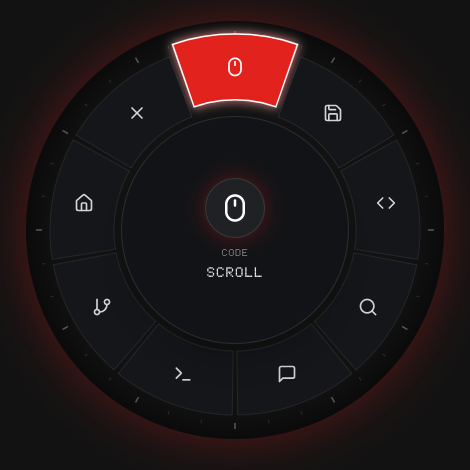
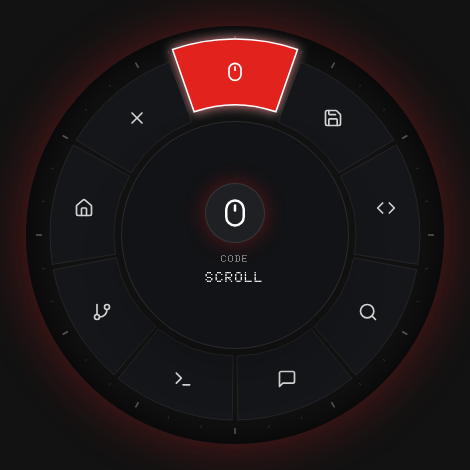
docs: refresh screenshots and credits for the open font
Recapture the README GIF and screenshots, the social preview and the website
images with the new typeface, sync the website wheel's font rules with the
app, and update the acknowledgements, changelog and contributor notes.

diff --git a/website/src/styles/global.css b/website/src/styles/global.css
@@ -2,7 +2,7 @@
  * paper: oklch(14.5% 0.012 265) · accent: oklch(57% 0.215 27) · display: Doto · body: Hanken Grotesk · hero: Stage, the app's own wheel on the right opens from a simulated double press and can be turned · nav: edge-aligned wordmark and one action, no links · footer: a ruled row of links over the notice · imagery: the product, live (the app's own wheel component) and captured (the settings window) · signature: the real wheel, running in the hero, opening from a double press and answering the arrow keys
  * axes: dark/mono-dot/chromatic-red · posture: restrained, the signal red marks the primary action, the selected slice and the focus ring · contrast: pass · fold: pass · v2.0.0 */
 /* Hallmark · pre-emit critique: P4 H5 E4 S5 R4 V4 · weakest: P, the argument was soft; made the claim that the page is the product, so the wheel is live rather than pictured */
-/* Hallmark · waive 75 · div.font-ndot at 10px · the small label is the app's own wheel component, drawn at 450px and scaled by transform to the stage width */
+/* Hallmark · waive 75 · div.font-dot at 10px · the small label is the app's own wheel component, drawn at 450px and scaled by transform to the stage width */
 /* Hallmark · waive 80 · div.relative 560x560 with 30 shapes · it is the app's real wheel rendered live in a labelled product group, not a drawing */
 /* Hallmark · answered F4 · the download section repeats the hero's one action for the visitor's own system, so the second filled button is the same call to action */
 /* Hallmark · dismissed 58 · the lower window holds two install commands, their copy buttons, three short steps and the footer, where most words are URLs and key names */

diff --git a/website/src/styles/wheel.css b/website/src/styles/wheel.css
@@ -1,9 +1,9 @@
 /* Utilities for the app's wheel component only; the page is styled in global.css. */
 @tailwind utilities;
 
-.font-ndot {
+.font-dot {
   font-family: var(--font-display);
-  font-variation-settings: "ROND" 100;
-  font-weight: 600;
-  letter-spacing: 0.06em;
+  font-variation-settings: "ROND" 0;
+  font-weight: 800;
+  letter-spacing: 0.01em;
 }

diff --git a/CLAUDE.md b/CLAUDE.md
@@ -71,7 +71,7 @@ dial-control/
 ├── dist-packages/          # Packaged installers (.deb, .rpm, .pkg.tar.zst, .AppImage)
 ├── website/                # Marketing site (Astro + React islands); embeds the app's own DonutRadialHUD, deployed to GitHub Pages
 ├── docs/                   # ARCHITECTURE, PLATFORMS, DEVELOPMENT_GUIDE, archived PROTOCOL_SPEC
-├── public/                 # Fonts (NType82, Ndot57) & web assets
+├── public/                 # Doto font (SIL OFL) & web assets
 ├── resources/              # GNOME Shell extension & bundled platform resources
 │   └── gnome-extension/   # focused-window-dbus@flexagoon.com
 ├── scripts/                # Packaging & udev install scripts

diff --git a/README.md b/README.md
@@ -307,7 +307,7 @@ Issues and pull requests are welcome. Read [CONTRIBUTING.md](CONTRIBUTING.md) fi
 
 - [KnifeLemon/Filee](https://github.com/KnifeLemon/Filee), the radial-menu inspiration
 - [Tauri](https://v2.tauri.app/), [React](https://react.dev/), [Framer Motion](https://motion.dev/), [Tailwind CSS](https://tailwindcss.com/)
-- The dot-matrix typefaces in [public/fonts](public/fonts) are third-party; see their own terms
+- [Doto](https://fonts.google.com/specimen/Doto), the dot-matrix typeface bundled in [public/fonts](public/fonts), by The Doto Project Authors, under the SIL Open Font License
 
 ## License
 

diff --git a/CHANGELOG.md b/CHANGELOG.md
@@ -31,6 +31,7 @@ First release.
 - Release workflows use least-privilege tokens; Dependabot enabled.
 
 ### Changed
+- The app now bundles the open-licensed Doto typeface (SIL OFL) instead of third-party fonts; the CSS class is `font-dot`. The Settings slice list header reads "Slices".
 - Removed third-party branding from the app UI: themes are now *Signal Red* / *Amber* / *Pure Titanium* (saved configs are migrated); added an "independent project, no affiliation" notice.
 
 ### Not included
